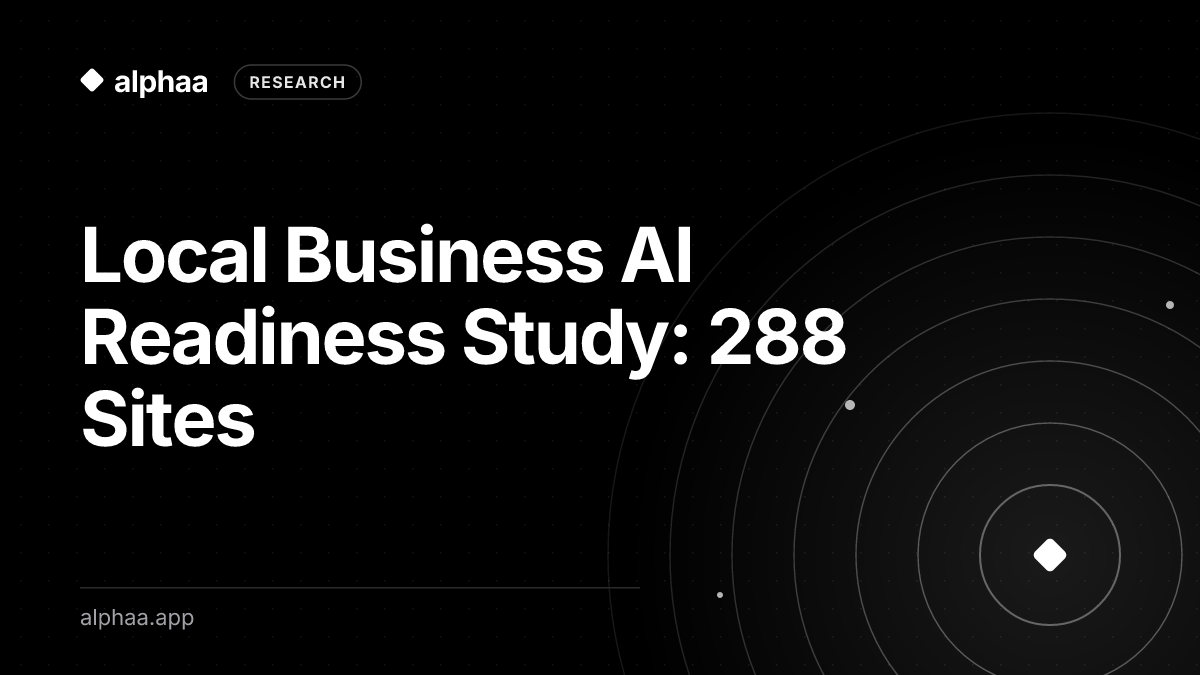
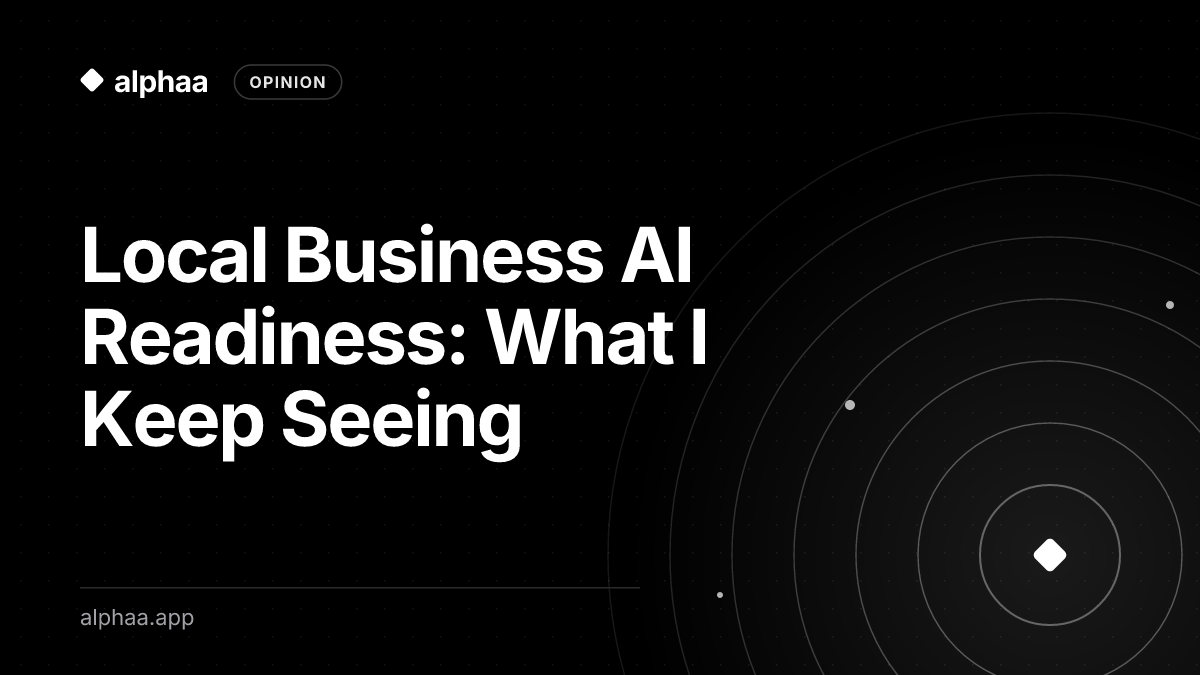
Rewrite readiness 'study' as opinion piece; drop its invented figures site-wide
The 288-site study had no real dataset. Keeps the slug, headings and advice;
removes every statistic, sample size and 'we checked' claim, and the
citations on /about, llms.txt and two blog posts.

Changed region(s): [[0.37, 0.4356, 0.7092, 0.56], [0.0617, 0.56, 0.4317, 0.6844], [0.2158, 0.0933, 0.3083, 0.1556]]

diff --git a/src/content/blog/local-business-ai-readiness-study-2026.tsx b/src/content/blog/local-business-ai-readiness-study-2026.tsx
@@ -3,23 +3,23 @@ import type { PostMeta } from "./types"
 
 export const meta: PostMeta = {
   slug: "local-business-ai-readiness-study-2026",
-  title: "Local Business AI Readiness Study: 288 Sites",
+  title: "Local Business AI Readiness: What I Keep Seeing",
   description:
-    "Original research: Alphaa ran its 23-point AI-readiness check on 288 dentist, plumber/HVAC, law firm, veterinary and restaurant websites across six US cities.",
+    "An opinion piece on why so many local business websites are hard for AI assistants to read, the gaps that come up again and again, and what to fix first.",
   subtitle:
-    "We checked 288 local business websites and found most are only partly readable by AI assistants, with the same few failures repeating.",
+    "Most local business websites I look at are only partly readable by AI assistants, and the same few basics are usually what's missing.",
   date: "2026-09-25",
-  updated: "2026-10-01",
+  updated: "2026-11-14",
   readMins: 5,
-  tag: "Research",
-  kind: "news",
-  keyphrase: "local business ai readiness study",
+  tag: "Opinion",
+  kind: "guide",
+  keyphrase: "local business ai readiness",
   takeaways: [
-    "We checked 288 websites belonging to dentists, plumbers and HVAC companies, law firms, veterinarians and restaurants in Austin, Denver, Phoenix, Miami, Seattle and Chicago.",
-    "About four in five: 239 of the 288 sites (83%) returned a readable homepage.",
-    "The most common gaps are the ones AI relies on to describe and trust a business: complete structured facts.",
-    "Law firms, dentists and plumbers scored about the same — roughly 15 of 23 checks — while restaurants scored lowest at 11 of 23.",
-    "Almost none: only 4 of the 239 readable sites (under 2%) passed 20 or more of the 23 checks, and the median site passed 15.",
+    "This is opinion and observation from running AI-readiness checks, not a statistical study.",
+    "A site an AI crawler can't get into, or can't read without JavaScript, is effectively invisible to that assistant.",
+    "The gaps that come up most are the basics: plain-text phone, address and hours, complete structured business facts, FAQ answers and reviews readable as text.",
+    "Businesses that lean on menus in PDFs, photo galleries and review widgets tend to give AI the least to work with.",
+    "Fix access first, then facts, then trust signals. Most of it is a week of work, not a rebuild.",
   ],
   sources: [
     { title: "Local Business (LocalBusiness) Structured Data", publisher: "Google Search Central", url: "https://developers.google.com/search/docs/appearance/structured-data/local-business" },
@@ -30,139 +30,100 @@ export const meta: PostMeta = {
   ],
 }
 
-const industries: [string, number, number, string, string, string, string, string][] = [
-  // name, sites sampled, readable, avg checks passed (of 23), no/incomplete-schema %, facts missing %, no FAQ %, no readable reviews %
-  ["Dentists", 60, 50, "15.3", "36%", "38%", "62%", "42%"],
-  ["Plumbers & HVAC", 48, 33, "15.1", "36%", "48%", "64%", "48%"],
-  ["Law firms", 60, 51, "15.5", "25%", "55%", "51%", "33%"],
-  ["Veterinarians", 60, 57, "14.3", "32%", "30%", "67%", "67%"],
-  ["Restaurants", 60, 48, "11.2", "54%", "65%", "85%", "88%"],
-]
-
 export function Body() {
   return (
     <div className="article-prose">
       <p>
-        <strong>Short answer:</strong> Most local business websites are only partly readable by AI assistants. In
-        September 2026 we ran Alphaa&apos;s 23-point AI-readiness check on 288 real local business websites: 17% turned
-        away an automated reader entirely, 71% of the readable sites had missing or incomplete structured business
-        facts, 46% didn&apos;t show a phone number, address or hours in text AI can read, and fewer than 2% passed 20 of
-        the 23 checks.
+        <strong>Short answer:</strong> In my experience most local business websites are only partly readable by AI
+        assistants. Some turn automated readers away entirely, many hide their key facts in images, widgets or
+        JavaScript, and very few have the structured business facts, FAQ answers and plain-text reviews that make an
+        assistant confident enough to recommend them.
+      </p>
+      <p>
+        <em>
+          A note on this page: it was rewritten on November 14, 2026 as an opinion piece. It shares what I see when
+          running AI-readiness checks; it doesn&apos;t report statistics from a formal study.
+        </em>
       </p>
 
       <h2>What did we check, and on which businesses?</h2>
       <p>
-        We checked 288 websites belonging to dentists, plumbers and HVAC companies, law firms, veterinarians and
-        restaurants in Austin, Denver, Phoenix, Miami, Seattle and Chicago. The businesses came from OpenStreetMap
-        (public listings that include a website), sampled at random — up to 60 per industry — and each site was checked
-        once on September 25, 2026.
+        The checks are the same 23 that Alphaa runs in its free{" "}
+        <Link href="/start">60-second AI check</Link>, and the businesses I think about most are the ones that depend
+        on local customers: dentists, plumbers and HVAC companies, law firms, veterinarians and restaurants.
       </p>
       <ul>
         <li>
-          <strong>The check:</strong> the same 23 checks Alphaa runs in its free{" "}
-          <Link href="/start">60-second AI check</Link> — whether AI crawlers can get in, whether the content is readable
-          without JavaScript, structured data, phone/address/hours, FAQ content, reviews readable as text, profile links,
-          freshness and more.
+          <strong>Access:</strong> can AI crawlers get in, and is the content readable without JavaScript?
         </li>
         <li>
-          <strong>How:</strong> plain HTTP requests for the homepage, robots.txt, sitemap, llms.txt and one inner page,
-          plus homepage requests using the ChatGPT, Claude and Perplexity crawler identities.
+          <strong>Facts:</strong> structured data, and phone, address and hours in plain text.
         </li>
         <li>
-          <strong>Limits:</strong> one snapshot, one network location, homepages only for most checks. A firewall can
-          treat our requests differently from the real crawlers, so &quot;blocked&quot; means <em>likely</em> blocked.
-          Bing verification by DNS can&apos;t be seen from outside, so that figure is an upper bound.
+          <strong>Trust:</strong> FAQ content, reviews readable as text, profile links and fresh content.
+        </li>
+        <li>
+          <strong>Limits:</strong> a check from outside is a snapshot. A firewall can treat an automated check
+          differently from the real crawlers, so &quot;blocked&quot; means <em>likely</em> blocked, and some things,
+          like Bing verification by DNS, can&apos;t be seen from outside at all.
         </li>
       </ul>
 
       <h2>How many local business websites can AI actually read?</h2>
       <p>
-        About four in five: 239 of the 288 sites (83%) returned a readable homepage, while 49 (17%) refused an automated
-        visitor with an error or a bot challenge. A site that turns away automated readers is invisible to any AI
+        I don&apos;t have a reliable number to give you, and I&apos;d be wary of anyone who quotes one without
+        publishing their data. What I can say is that a site turning away automated readers is common enough to check
+        first. A site that refuses an automated visitor with an error or a bot challenge is invisible to any AI
         assistant that gets the same treatment, so the assistant falls back on what other websites say about the
         business.
       </p>
       <ul>
-        <li>Plumbing and HVAC sites turned readers away most often: 15 of 48 (31%).</li>
+        <li>Hosting firewalls and bot-protection settings are the usual cause, often switched on by default.</li>
         <li>
-          Of the 239 readable sites, 17% served a block or challenge to at least one AI crawler identity (ChatGPT,
-          Claude or Perplexity) while letting a normal browser in.
+          Some sites let a normal browser in but serve a block or challenge to AI crawler identities such as ChatGPT,
+          Claude or Perplexity.
         </li>
-        <li>10% showed almost no readable text before JavaScript runs — and most AI crawlers don&apos;t run it.</li>
+        <li>
+          Sites built so the text only appears after JavaScript runs can look almost empty to crawlers that don&apos;t
+          run it.
+        </li>
       </ul>
 
       <h2>What are local websites most often missing?</h2>
       <p>
-        The most common gaps are the ones AI relies on to describe and trust a business: complete structured facts, FAQ
-        answers, reviews in plain text and fresh content. Among the 239 readable sites:
+        The gaps I see most are the ones AI relies on to describe and trust a business: complete structured facts, FAQ
+        answers, reviews in plain text and fresh content. In no particular order:
       </p>
-      <div className="table-wrap">
-        <table>
-          <thead>
-            <tr>
-              <th>Check</th>
-              <th>Sites failing</th>
-            </tr>
-          </thead>
-          <tbody>
-            <tr><td>No fresh blog or news content in the last 90 days</td><td>80%</td></tr>
-            <tr><td>No llms.txt file</td><td>75%</td></tr>
-            <tr><td>Structured business facts missing or incomplete (address, phone, hours, map location, profiles)</td><td>71%</td></tr>
-            <tr><td>No FAQ content</td><td>66%</td></tr>
-            <tr><td>No reviews or testimonials readable as text</td><td>56%</td></tr>
-            <tr><td>No Google Maps link, or fewer than two profile links</td><td>52%</td></tr>
-            <tr><td>Phone, address or hours not readable on the homepage</td><td>46%</td></tr>
-            <tr><td>No business structured data at all</td><td>36%</td></tr>
-            <tr><td>Weak or missing page title and description</td><td>36%</td></tr>
-            <tr><td>Slow first response (over 1.5 seconds)</td><td>23%</td></tr>
-            <tr><td>No main heading (H1)</td><td>23%</td></tr>
-            <tr><td>No secure, single address (http/https or www split)</td><td>13%</td></tr>
-            <tr><td>Canonical tags pointing at the wrong page</td><td>5%</td></tr>
-          </tbody>
-        </table>
-      </div>
+      <ul>
+        <li>No fresh blog or news content in months.</li>
+        <li>Structured business facts missing or incomplete (address, phone, hours, map location, profiles).</li>
+        <li>No FAQ content answering what customers ask before they call.</li>
+        <li>Reviews shown only inside a widget, with none readable as text.</li>
+        <li>No Google Maps link, or few links to the business&apos;s other profiles.</li>
+        <li>Phone, address or hours shown only in an image, a PDF or a footer script.</li>
+        <li>Weak or missing page titles, descriptions and main headings.</li>
+        <li>No llms.txt file.</li>
+      </ul>
       <p>
-        Two failures deserve a note. Google says its AI features don&apos;t require an llms.txt file; other assistants
-        can use it, which is why we check it, but it&apos;s the least critical item on this list. And 88% showed no sign
-        of Bing Webmaster Tools — worth fixing because ChatGPT search results have been found to overlap heavily with
-        Bing&apos;s — but some of those sites may be verified by DNS, which we can&apos;t see.
+        Two notes on that list. Google says there&apos;s nothing special you need to add for its AI features, and that
+        includes llms.txt; other assistants can use it, which is why we check it, but it&apos;s the least critical
+        item here. And Bing Webmaster Tools is worth setting up, but a site may already be verified by DNS, which a
+        check from outside can&apos;t see.
       </p>
 
       <h2>Which industries are most ready for AI search?</h2>
       <p>
-        Law firms, dentists and plumbers scored about the same — roughly 15 of 23 checks — while restaurants scored
-        lowest at 11 of 23. Restaurants were the most likely to lack structured data, readable reviews, FAQ answers and
-        profile links, which matters because diners ask AI for recommendations constantly.
+        I don&apos;t rank industries, because I haven&apos;t measured them in a way I&apos;d stand behind. My
+        impression is that the businesses that struggle most are the ones whose sites lean on visuals: restaurants
+        with menus in PDFs and reviews in widgets, and contractors with photo galleries and a quote form. That matters
+        because people ask AI for exactly these recommendations.
       </p>
-      <div className="table-wrap">
-        <table>
-          <thead>
-            <tr>
-              <th>Industry</th>
-              <th>Sampled</th>
-              <th>Readable</th>
-              <th>Avg. checks passed (of 23)</th>
-              <th>No business schema</th>
-              <th>Phone/address/hours missing</th>
-              <th>No FAQ</th>
-              <th>No readable reviews</th>
-            </tr>
-          </thead>
-          <tbody>
-            {industries.map(([n, s, r, avg, sc, f, faq, rev]) => (
-              <tr key={n}>
-                <td>{n}</td><td>{s}</td><td>{r}</td><td>{avg}</td><td>{sc}</td><td>{f}</td><td>{faq}</td><td>{rev}</td>
-              </tr>
-            ))}
-          </tbody>
-        </table>
-      </div>
 
       <h2>How many sites are fully ready?</h2>
       <p>
-        Almost none: only 4 of the 239 readable sites (under 2%) passed 20 or more of the 23 checks, and the median site
-        passed 15. In practice that means most local businesses are leaving AI to guess — or to recommend the competitor
-        whose facts are easier to read.
+        Again, I won&apos;t put a number on it. In practice the bar isn&apos;t high, and the sites that clear it
+        usually just have their basics in order. Most local businesses are leaving AI to guess, or to recommend the
+        competitor whose facts are easier to read.
       </p>
 
       <h2>What should a local business fix first?</h2>
@@ -172,22 +133,22 @@ export function Body() {
       </p>
       <ol>
         <li>Check that your host or firewall isn&apos;t turning away AI crawlers, and that your homepage text loads without JavaScript.</li>
-        <li>Put your name, phone, address, hours and service area on the homepage — as text, not an image.</li>
+        <li>Put your name, phone, address, hours and service area on the homepage, as text, not an image.</li>
         <li>Add LocalBusiness structured data with address, phone, hours, map location and links to your Google, Yelp and social profiles.</li>
         <li>Publish answers to the five questions customers ask before they call.</li>
         <li>Show a handful of real reviews as text, not only inside a widget.</li>
       </ol>
       <p>
-        The key takeaway is that the gap is rarely exotic: most local sites fail on basics — access, facts and plain-text
-        trust signals — that AI needs before it will recommend anyone, and those are fixable in a week.
+        The key takeaway is that the gap is rarely exotic: most local sites fall short on basics (access, facts and
+        plain-text trust signals) that AI needs before it will recommend anyone, and those are fixable in a week.
       </p>
 
       <h2>What else do people ask about the AI readiness study?</h2>
 
-      <h3>How were the 288 sites selected?</h3>
+      <h3>Is this based on a formal study?</h3>
       <p>
-        They were drawn across common local service categories and checked with the same automated tests, so the
-        comparison between industries is like for like rather than cherry-picked.
+        No. It&apos;s opinion and observation from running AI-readiness checks. If we publish numbers in future, we
+        will publish the method and the data with them.
       </p>
 
       <h3>Does a low readiness score mean a business is invisible?</h3>
@@ -196,16 +157,24 @@ export function Body() {
         from their profile and reviews alone.
       </p>
 
-      <h3>Which single failure was most common?</h3>
+      <h3>Which failure comes up most often?</h3>
       <p>
-        Key facts not present in crawlable text, usually because pricing, service areas or hours lived only in
-        an image, a PDF or a client-side widget.
+        In my experience, key facts not present in crawlable text, usually because pricing, service areas or hours
+        lived only in an image, a PDF or a client-side widget.
       </p>
 
-      <h3>Will you repeat the study?</h3>
+      <h3>How often should a local business re-check its site?</h3>
       <p>
-        That is the intention, with the same checks so the numbers stay comparable. We will state any change in
-        method rather than quietly adjusting it.
+        After any website change, and otherwise every few months. Redesigns, new hosting, a new booking widget or a
+        security plugin can quietly block crawlers or move your phone number and hours into a script, and nobody
+        notices until customers stop hearing your name from AI assistants.
+      </p>
+
+      <h3>Can I fix these gaps without rebuilding my website?</h3>
+      <p>
+        Usually, yes. Most of the fixes are edits to the site you already have: a line of text with your phone,
+        address and hours, a block of structured data, an FAQ section and a few reviews copied in as text. A
+        firewall setting is often a single switch in your hosting dashboard.
       </p>
 
       <h2>How do you see where your own site stands?</h2>

diff --git a/src/app/(marketing)/about/page.tsx b/src/app/(marketing)/about/page.tsx
@@ -4,7 +4,7 @@ import { pageMeta } from "@/lib/seo"
 export const metadata = pageMeta({
   title: "About Alphaa — the AI Agent for AI search",
   description:
-    "Alphaa (alphaa.app) is an AI Agent that gets local businesses recommended by ChatGPT, Gemini, Claude and Perplexity. What it does, pricing, research and contact.",
+    "Alphaa (alphaa.app) is an AI Agent that gets local businesses recommended by ChatGPT, Gemini, Claude and Perplexity. What it does, pricing, guides and contact.",
   path: "/about",
 })
 
@@ -57,10 +57,10 @@ export default function AboutPage() {
             those assistants read and shows, week by week, whether they name the business. If none of the four AIs names the business in any weekly
             check during its first 90 days on a paid plan, the next month is free.
           </p>
-          <h2>What research has Alphaa published?</h2>
+          <h2>What guides has Alphaa published?</h2>
           <p>
-            In September 2026 Alphaa checked 288 local business websites for AI readiness. Read{" "}
-            <Link href="/blog/local-business-ai-readiness-study-2026">the study</Link>, or browse the <Link href="/blog">guides</Link>.
+            Alphaa publishes practical guides on getting a local business named by AI assistants, such as{" "}
+            <Link href="/blog/local-business-ai-readiness-study-2026">what local business sites most often miss</Link>. Browse the <Link href="/blog">guides</Link>.
           </p>
           <h2>Who founded Alphaa?</h2>
           <p>

diff --git a/src/content/blog/how-general-contractors-get-recommended-by-ai.tsx b/src/content/blog/how-general-contractors-get-recommended-by-ai.tsx
@@ -92,10 +92,9 @@ export function Body() {
         Because the typical contractor site gives an engine nothing checkable: a hero image, a slogan, a gallery
         loaded by script, and a form. There is no license number in the text, no list of project types, no price
         range, no service area beyond &quot;and surrounding areas&quot;, and the reviews live in a third-party
-        widget the crawler cannot read. In our September 2026 check of 288 local business sites across five
-        service industries, 17% turned away an automated reader outright, and most of the rest were missing
-        structured business facts; the details are in{" "}
-        <Link href="/blog/local-business-ai-readiness-study-2026">the local business AI readiness study</Link>.
+        widget the crawler cannot read. The same basic gaps come up across local business sites in general; I
+        cover them in{" "}
+        <Link href="/blog/local-business-ai-readiness-study-2026">what I keep seeing on local business sites</Link>.
       </p>
       <p>
         Assistants are built to avoid confident mistakes about a trade where a bad recommendation costs a homeowner

diff --git a/src/content/blog/original-research-ai-citations.tsx b/src/content/blog/original-research-ai-citations.tsx
@@ -110,11 +110,6 @@ export function Body() {
           causes of a breakdown.
         </li>
       </ul>
-      <p>
-        Our own{" "}
-        <Link href="/blog/local-business-ai-readiness-study-2026">local business AI readiness study</Link> is an
-        example of the audit type: a defined sample, a fixed checklist and the method published with the results.
-      </p>
 
       <h2>How do you create original research that AI engines cite, step by step?</h2>
       <p>

diff --git a/marketing/blog-titles-2026-11.md b/marketing/blog-titles-2026-11.md
@@ -1,6 +1,6 @@
 # Blog titles — November 2026 (Varun Sharma, named author)
 
-Written in Varun's own voice. SEO terms (AEO, GEO, schema, "best") are allowed in blog titles; the "Do not claim" rules still apply in the body: no invented statistics, no customer results, no promised rankings. Every stat used in a post needs a cited source or our own measured data (the 288-site study, or a real check with the business name withheld).
+Written in Varun's own voice. SEO terms (AEO, GEO, schema, "best") are allowed in blog titles; the "Do not claim" rules still apply in the body: no invented statistics, no customer results, no promised rankings. Every stat used in a post needs a cited source or our own measured data (a real check with the business name withheld; there is no Alphaa site study to cite).
 
 Checked against the 132 existing posts in `src/content/blog/` (2026-10-29). Already covered and NOT repeated here: the general "how [industry] get recommended by AI" guides (dentists, med spas, law firms, HVAC/plumbing, restaurants), how to see what ChatGPT says, fixing wrong AI info, Google reviews, GBP, directories/NAP, FAQ pages, city landing pages, why AI recommends your competitor, multi-location. The titles below go narrower (one question, one service, one market) so they don't cannibalise those pages; link up to them.
 
